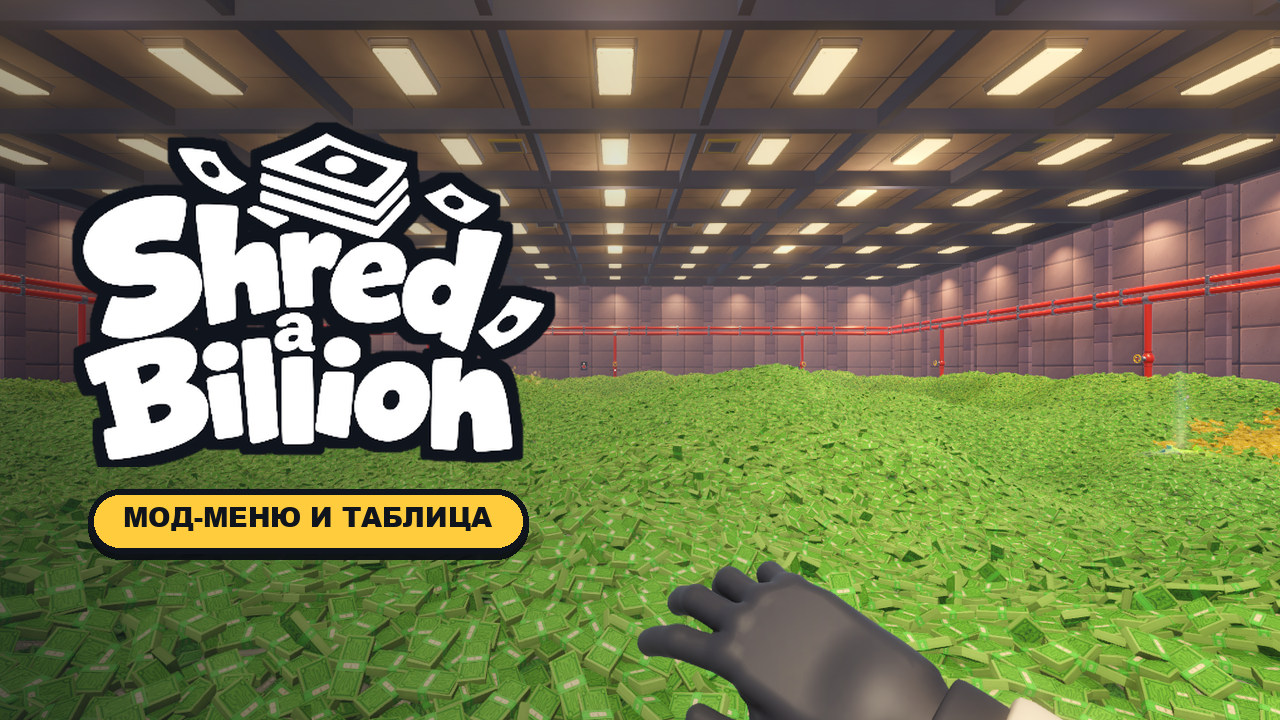
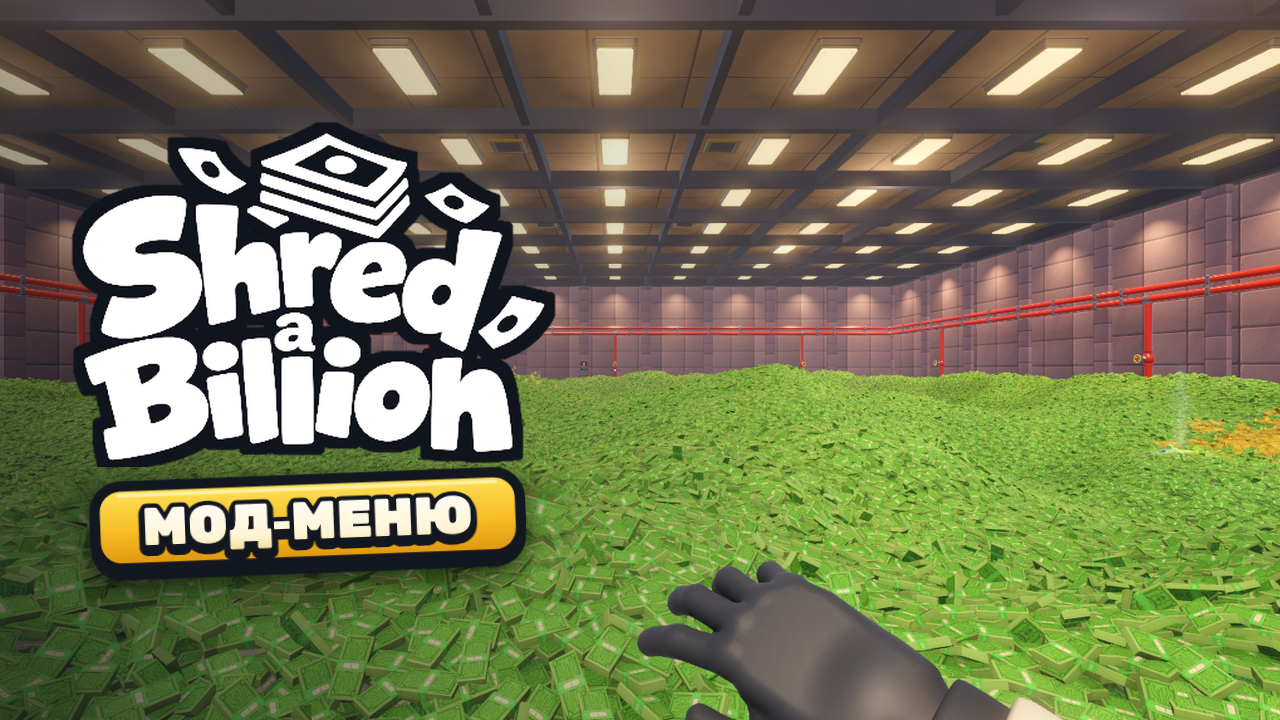
docs: polish README copy and refresh release visuals

Changed region(s): [[0.0625, 0.6417, 0.4375, 0.825]]

diff --git a/README.md b/README.md
@@ -1,6 +1,6 @@
 # SHRED A BILLION - Внутриигровое мод-меню, стартовое сохранение и таблица Cheat Engine (.CT)
 
-Русское внутриигровое мод-меню (`v1.0`), стилизованное под интерфейс **SHRED A BILLION**, готовое стартовое сохранение и таблица Cheat Engine (Steam AppID `5472080`, проверено на версии `1.0.23`). Достижения продолжают открываться как в обычной игре, а вернуть чистую оригинальную игру можно в один клик без перекачивания в Steam.
+Русское внутриигровое мод-меню (`v1.0`), стилизованное под интерфейс **SHRED A BILLION**, готовое стартовое сохранение и таблица Cheat Engine (Steam AppID `5472080`, проверено на версии `1.0.23`). Достижения Steam продолжают открываться, а вернуть оригинальные файлы можно в один клик.
 
 ## Скачать
 - **[Страница релиза на Boosty (мод-меню v1.0 с автосохранением и QoL - ранний доступ 48 часов, далее открыто всем)](https://boosty.to/cd_tixo/posts/91615b98-617b-4e4e-8056-baf6eca9ae71?utm_source=github&utm_medium=readme&utm_campaign=shred_a_billion)**
